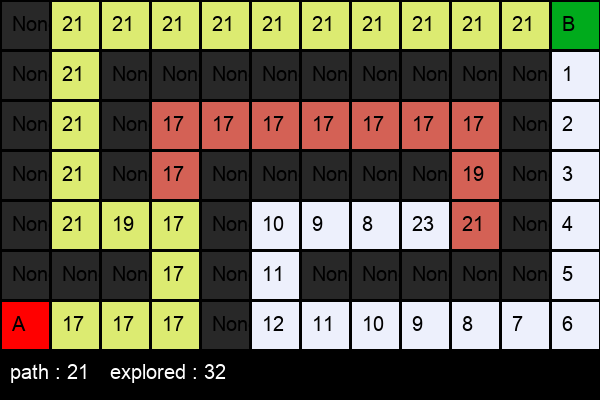
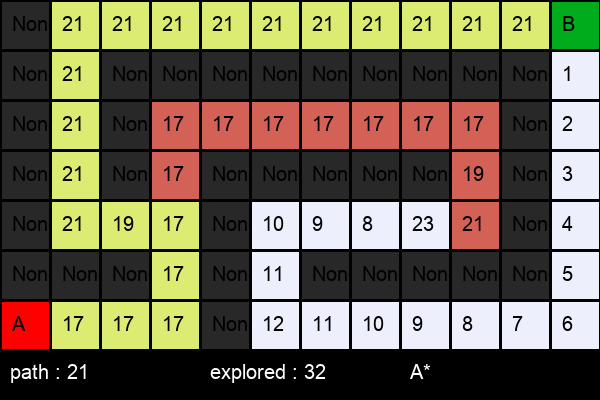
images update

Changed region(s): [[0.18, 0.9, 0.48, 0.96], [0.69, 0.9, 0.72, 0.96], [0.51, 0.9, 0.54, 0.96]]

diff --git a/maze.py b/maze.py
@@ -237,7 +237,9 @@ class Maze:
         text_x = 10
         text_y = self.height * cell_size + 10  # slightly below maze
         draw.text((text_x, text_y), f"path : {len(solution)}", fill="white", font=font)
-        draw.text((text_x+100, text_y), f"explored : {self.num_explored}", fill="white", font=font)
+        draw.text((text_x+200, text_y), f"explored : {self.num_explored}", fill="white", font=font)
+        draw.text((text_x+400, text_y), f"{filename[13:-4]}", fill="white", font=font)
+
 
         img.save(filename)
 
